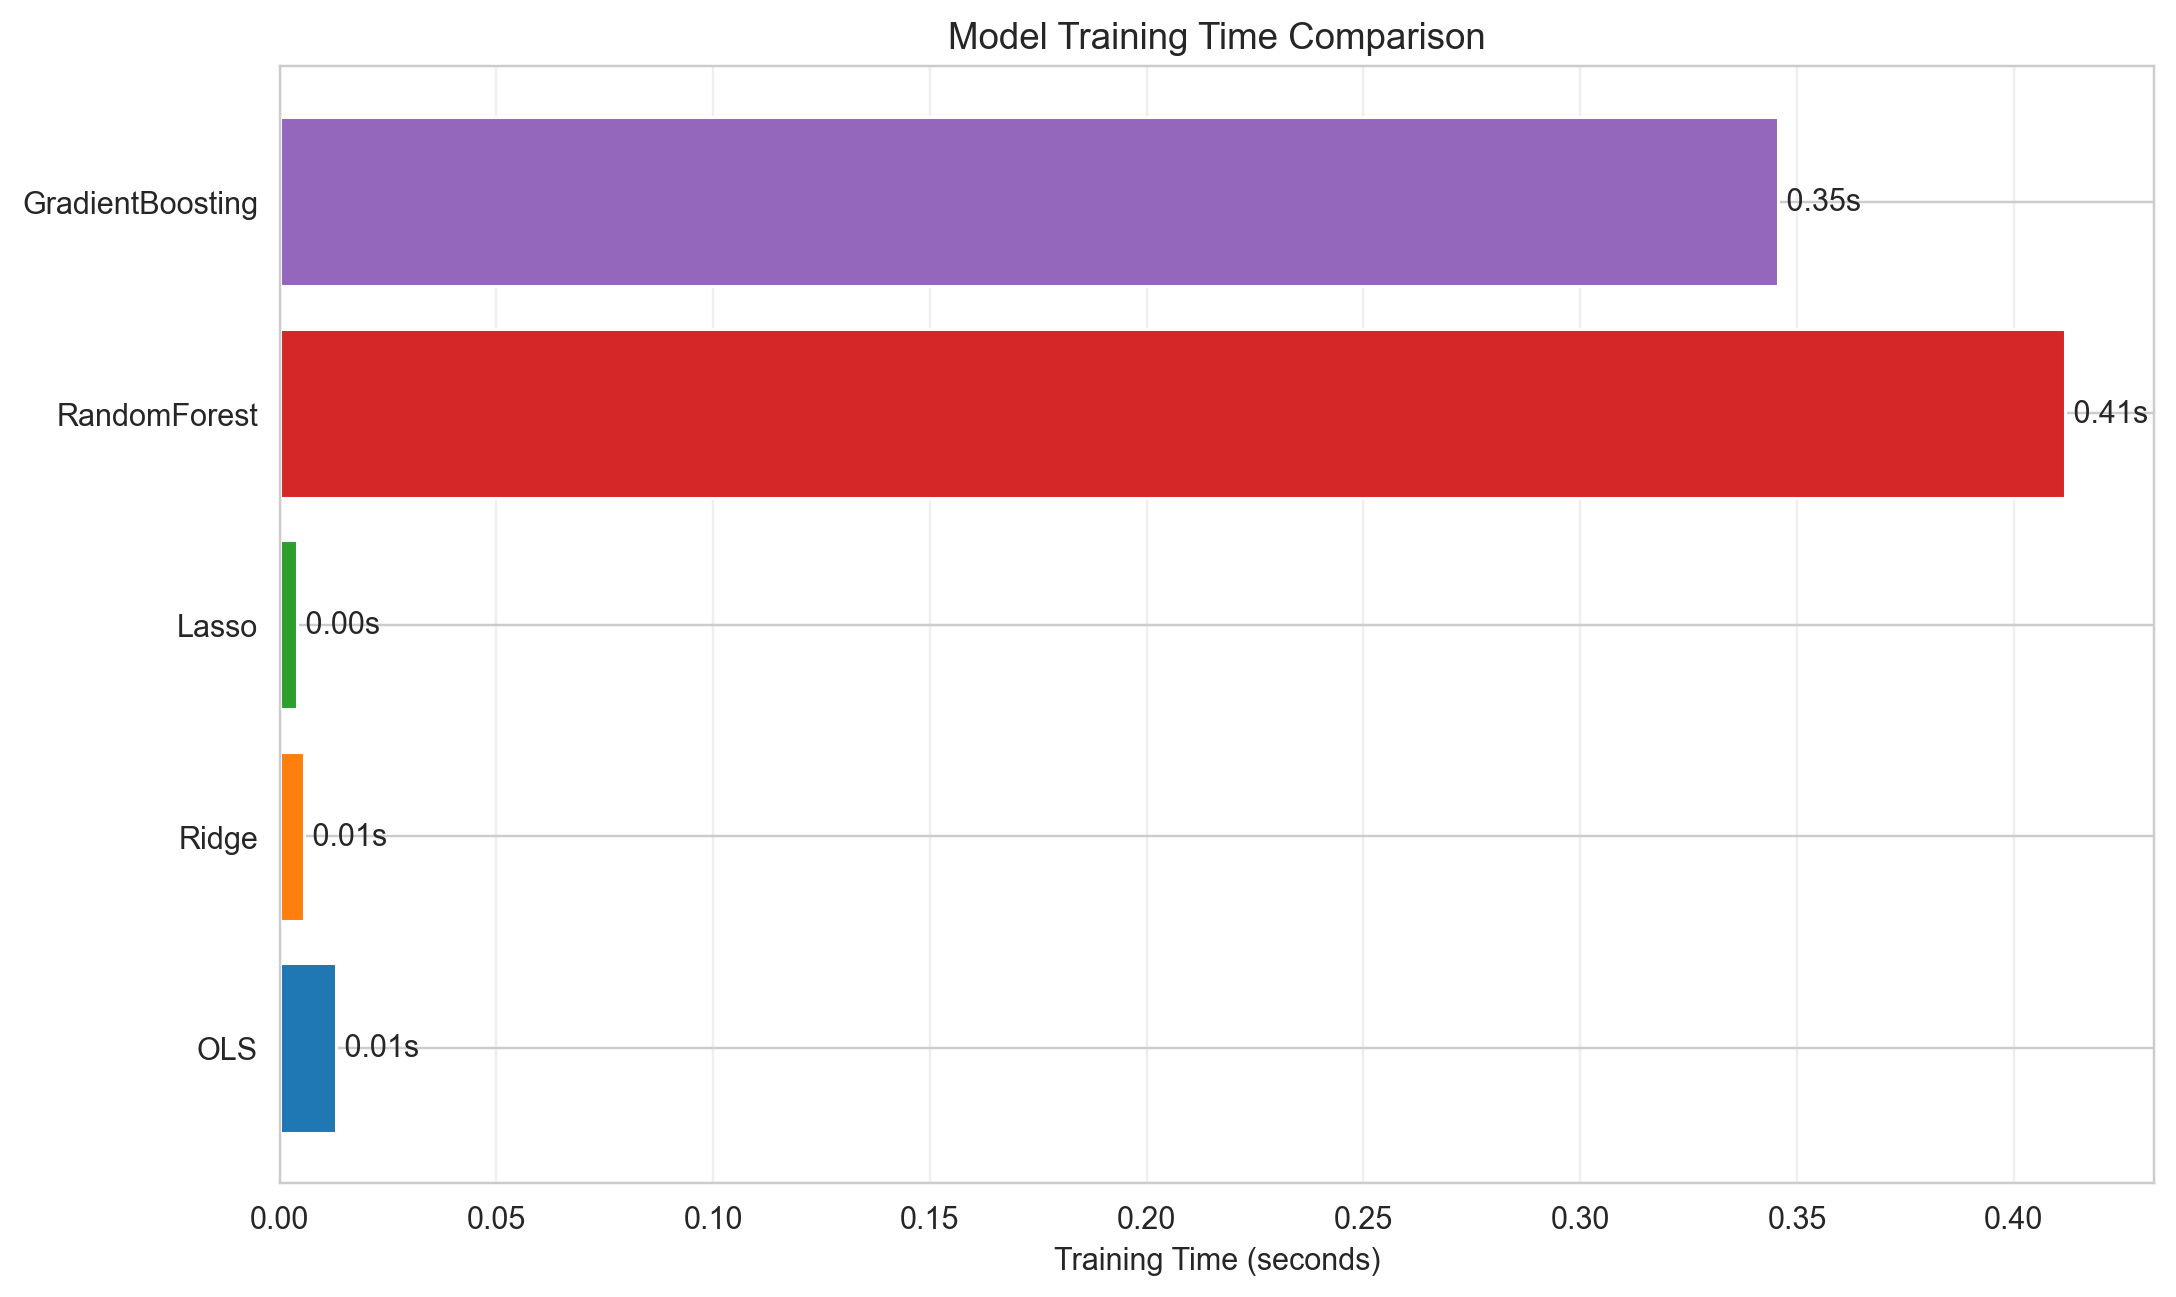
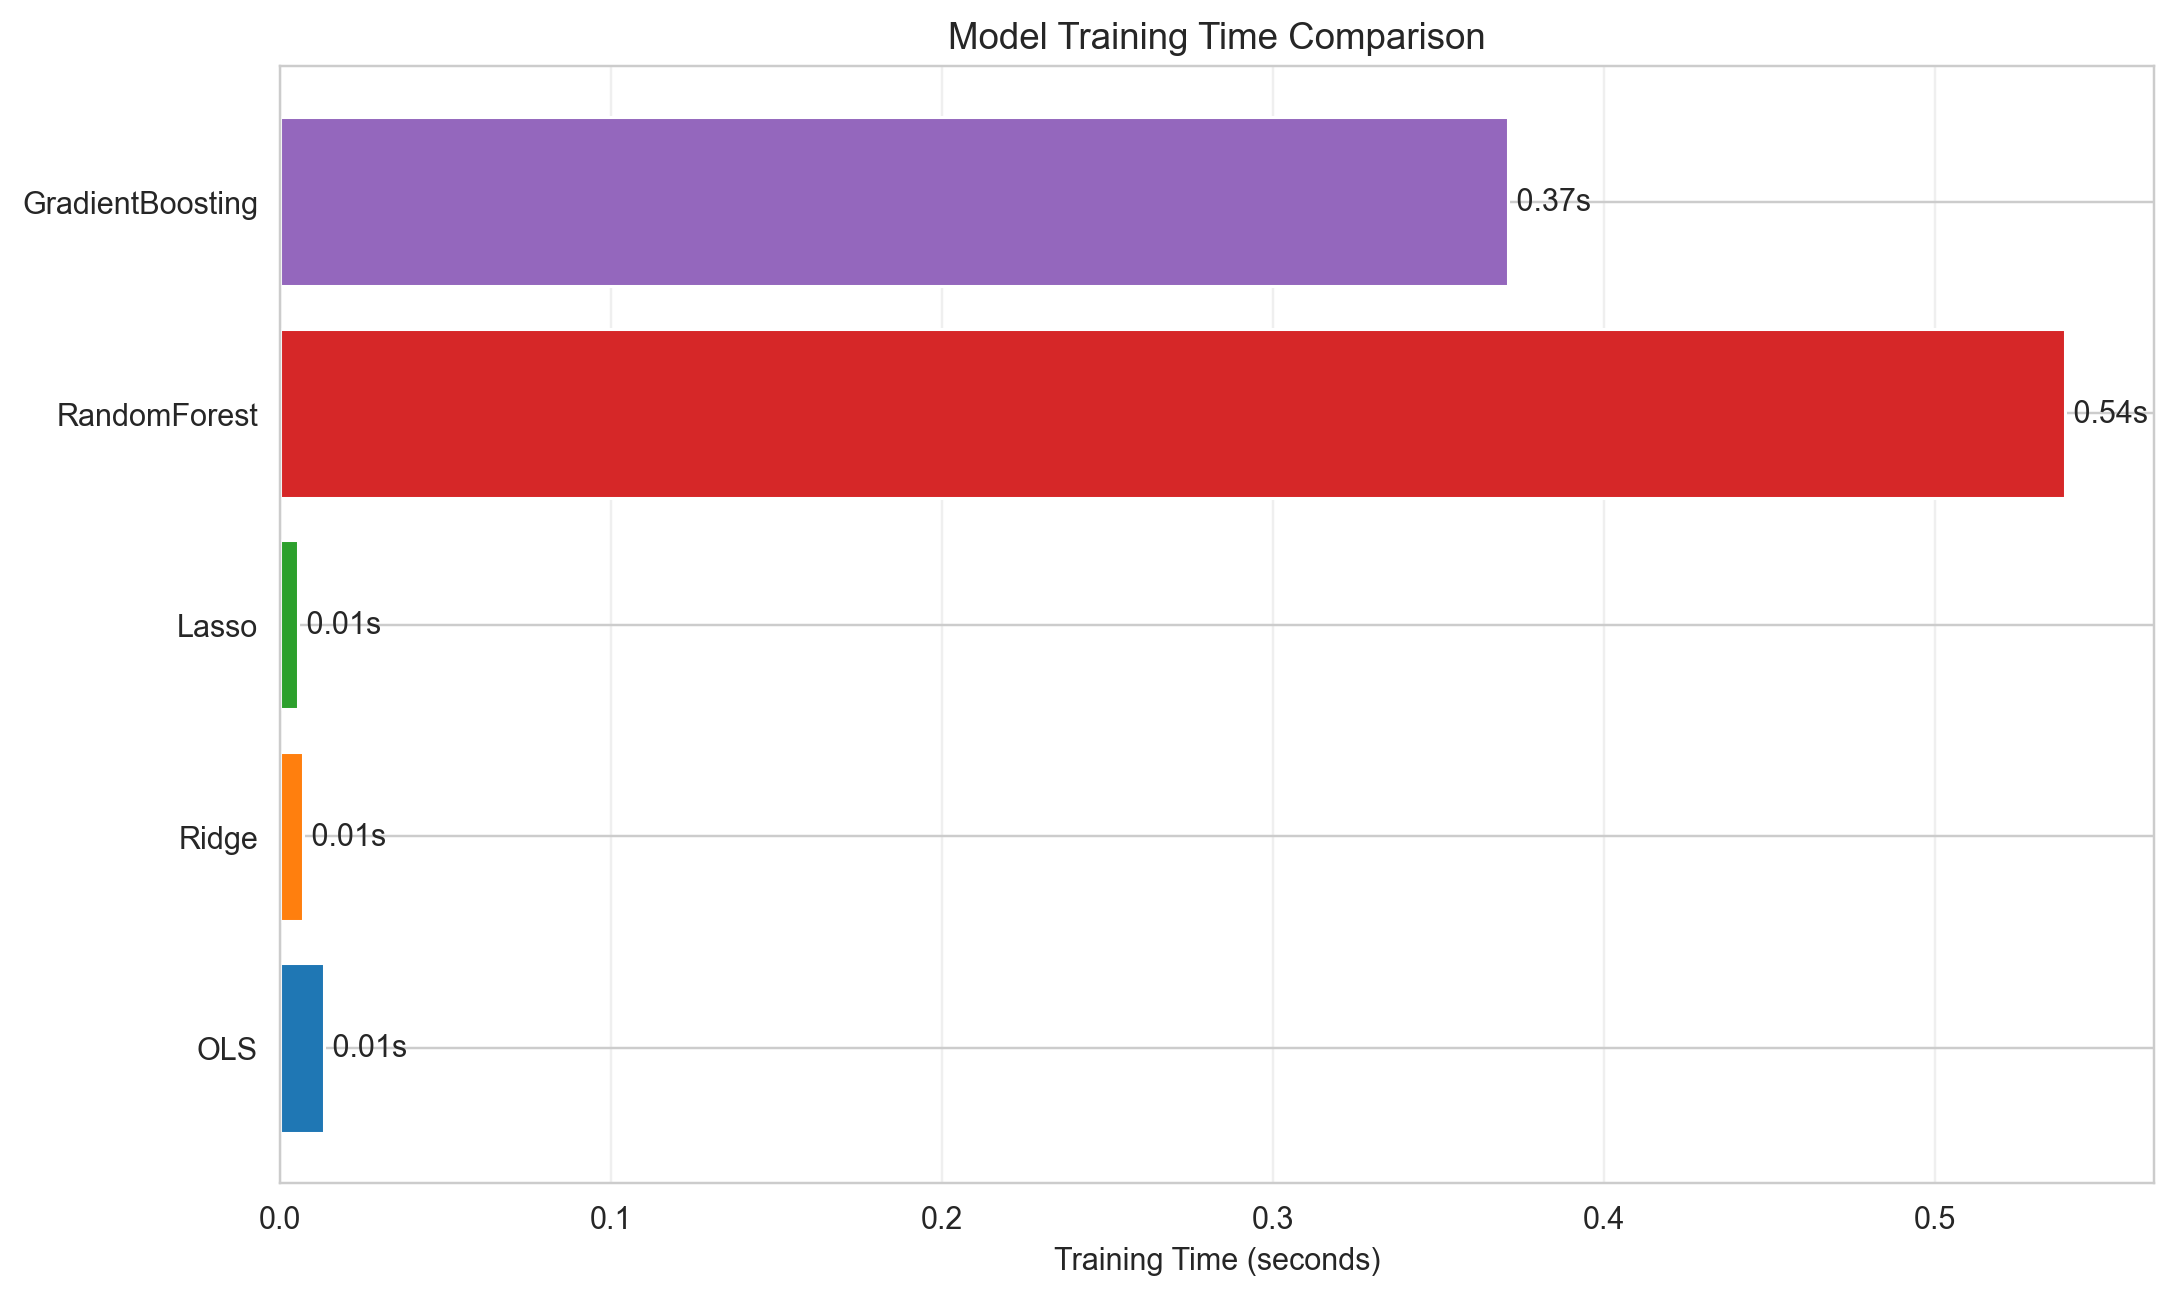
Validate fresh outputs and support small monthly panels

diff --git a/tests/test_forecast_validity.py b/tests/test_forecast_validity.py
@@ -1,4 +1,8 @@
 import tempfile
+import json
+import shutil
+import contextlib
+import io
 import unittest
 from pathlib import Path
 
@@ -7,7 +11,8 @@ import pandas as pd
 from pandas.testing import assert_frame_equal
 
 from src.fa590_stock_return_prediction.panel import align_next_month_target, prepare_features, chronological_split, select_model
-from src.fa590_stock_return_prediction.pipeline import portfolio_performance
+from src.fa590_stock_return_prediction.pipeline import portfolio_performance, RunConfig, run_project
+from scripts.verify_outputs import verify
 from src.fa590_stock_return_prediction.prepare_wrds_merge import build_dataset
 
 
@@ -85,6 +90,40 @@ class ForecastValidityTests(unittest.TestCase):
         result = portfolio_performance(panel, np.arange(20), ["2020-01-31"], "RET")
         self.assertAlmostEqual(result["Avg_Return"], np.mean([0.16, 0.17, 0.18, 0.19]))
         self.assertEqual(result["N_Months"], 1)
+
+    def test_small_monthly_population_is_not_reported_as_empty(self):
+        panel = pd.DataFrame({"DATE": ["2020-01-31"] * 10, "RET": np.arange(10) / 100})
+        result = portfolio_performance(panel, np.arange(10), ["2020-01-31"], "RET")
+        self.assertAlmostEqual(result["Avg_Return"], 0.085)
+        self.assertEqual(result["N_Months"], 1)
+
+    def test_failed_rebuild_cannot_verify_previous_success(self):
+        with tempfile.TemporaryDirectory() as directory:
+            root = Path(directory)
+            (root / "run_status.json").write_text(json.dumps({"status": "SUCCESS"}))
+            (root / "run_summary.json").write_text(json.dumps({"selected_model": "STALE"}))
+            with self.assertRaises(FileNotFoundError):
+                run_project(RunConfig(data_path=str(root / "missing.csv"), output_dir=root, skip_neural_network=True))
+            self.assertEqual(json.loads((root / "run_status.json").read_text())["status"], "ERROR")
+            with self.assertRaisesRegex(AssertionError, "incomplete or failed"):
+                verify(root)
+
+    def test_saved_outputs_verify_across_checkout_line_endings_and_reject_tampering(self):
+        with tempfile.TemporaryDirectory() as directory:
+            root = Path(directory) / "outputs"
+            shutil.copytree(Path(__file__).resolve().parents[1] / "sample_outputs", root)
+            for path in root.glob("*.csv"):
+                path.write_bytes(path.read_bytes().replace(b"\r\n", b"\n"))
+            with contextlib.redirect_stdout(io.StringIO()):
+                verify(root)
+            for path in root.glob("*.csv"):
+                path.write_bytes(path.read_bytes().replace(b"\n", b"\r\n"))
+            with contextlib.redirect_stdout(io.StringIO()):
+                verify(root)
+            prediction_path = root / "predictions.csv"
+            prediction_path.write_bytes(prediction_path.read_bytes() + b"changed")
+            with self.assertRaisesRegex(AssertionError, "Output changed since successful run"):
+                verify(root)
 
 
 if __name__ == "__main__":

diff --git a/src/fa590_stock_return_prediction/pipeline.py b/src/fa590_stock_return_prediction/pipeline.py
@@ -252,7 +252,7 @@ def portfolio_performance(df_subset: pd.DataFrame, predictions: np.ndarray, date
     monthly_returns: List[float] = []
     for date in dates_list:
         date_data = df_temp[df_temp["DATE"] == date]
-        if len(date_data) < 20:
+        if date_data.empty:
             continue
         top_n = max(1, int(np.ceil(0.2 * len(date_data))))
         top_bucket = date_data.nlargest(top_n, "Prediction")
@@ -569,7 +569,7 @@ def save_risk_return_tradeoff(port_df: pd.DataFrame, charts_dir: Path) -> None:
     plt.close()
 
 
-def run_project(config: RunConfig) -> dict:
+def _run_project(config: RunConfig) -> dict:
     set_plot_style()
     set_random_seeds(config.random_seed)
     config.output_dir.mkdir(parents=True, exist_ok=True)
@@ -592,6 +592,8 @@ def run_project(config: RunConfig) -> dict:
     results, training_times, history_df, rf_model = train_models(split, config)
     if not history_df.empty:
         save_nn_history(history_df, charts_dir)
+    else:
+        (charts_dir / "07_nn_training_history.png").unlink(missing_ok=True)
     save_training_times(training_times, charts_dir)
 
     performance_metrics = []
@@ -643,3 +645,27 @@ def run_project(config: RunConfig) -> dict:
     }
     (config.output_dir / "run_summary.json").write_text(json.dumps(summary, indent=2), encoding="utf-8")
     return summary
+
+
+def run_project(config: RunConfig) -> dict:
+    """Keep a failed rebuild from advertising a previous run as current."""
+    config.output_dir.mkdir(parents=True, exist_ok=True)
+    status_path = config.output_dir / "run_status.json"
+    status_path.write_text(json.dumps({"status": "BUILDING"}), encoding="utf-8")
+    try:
+        summary = _run_project(config)
+        artifacts = [*config.output_dir.glob("*.csv"), config.output_dir / "run_summary.json",
+                     * (config.output_dir / "charts").glob("*.png")]
+        def digest(path: Path) -> str:
+            raw = path.read_bytes()
+            if path.suffix in {".csv", ".json"}:
+                raw = raw.replace(b"\r\n", b"\n")
+            return hashlib.sha256(raw).hexdigest()
+
+        hashes = {path.relative_to(config.output_dir).as_posix(): digest(path)
+                  for path in sorted(artifacts)}
+        status_path.write_text(json.dumps({"status": "SUCCESS", "text_identity": "CSV/JSON CRLF normalized to LF; binary bytes unchanged", "artifact_sha256": hashes}, indent=2), encoding="utf-8")
+        return summary
+    except Exception as error:
+        status_path.write_text(json.dumps({"status": "ERROR", "error_type": type(error).__name__}), encoding="utf-8")
+        raise

diff --git a/scripts/verify_outputs.py b/scripts/verify_outputs.py
@@ -1,5 +1,6 @@
 """Independently reconcile saved scores and selection to dated predictions."""
 import argparse
+import hashlib
 import json
 from pathlib import Path
 
@@ -8,10 +9,24 @@ import pandas as pd
 
 
 def verify(directory: Path):
+    status = json.loads((directory / "run_status.json").read_text())
+    assert status["status"] == "SUCCESS", "Output generation is incomplete or failed"
+    required = {"run_summary.json", "predictions.csv", "predictive_performance_detailed.csv",
+                "portfolio_performance.csv", "feature_importance.csv"}
+    hashes = status["artifact_sha256"]
+    assert required.issubset(hashes), "Successful run record lacks required outputs"
+    for name, expected_hash in hashes.items():
+        path = directory / name
+        assert path.resolve().is_relative_to(directory.resolve()), "Artifact escapes output directory"
+        raw = path.read_bytes()
+        if path.suffix in {".csv", ".json"}:
+            raw = raw.replace(b"\r\n", b"\n")
+        assert hashlib.sha256(raw).hexdigest() == expected_hash, f"Output changed since successful run: {name}"
     summary = json.loads((directory / "run_summary.json").read_text())
     predictions = pd.read_csv(directory / "predictions.csv", parse_dates=["DATE", "target_DATE"])
     scores = pd.read_csv(directory / "predictive_performance_detailed.csv")
     portfolios = pd.read_csv(directory / "portfolio_performance.csv")
+    assert summary["configuration"]["neural_network_enabled"] or not (directory / "charts/07_nn_training_history.png").exists()
     assert not predictions.duplicated(["Model", "Dataset", "permno", "DATE"]).any()
     assert predictions["target_DATE"].eq(predictions["DATE"] + pd.offsets.MonthEnd(1)).all()
     assert np.isfinite(predictions[["RET", "Prediction"]]).all().all()
@@ -22,6 +37,7 @@ def verify(directory: Path):
         if dataset == "Test":
             mean_return = rows.groupby("DATE").apply(lambda group: group.nlargest(max(1, int(np.ceil(len(group) * 0.2))), "Prediction")["RET"].mean(), include_groups=False)
             portfolio = portfolios[portfolios["Model"].eq(model) & portfolios["Dataset"].eq(dataset)].iloc[0]
+            assert portfolio["N_Months"] == len(mean_return)
             np.testing.assert_allclose(mean_return.mean(), portfolio["Avg_Return"], rtol=1e-10, atol=1e-12)
     validation = scores[scores["Dataset"].eq("Validation")].sort_values(["MSE", "Model"])
     assert summary["selected_model"] == validation.iloc[0]["Model"]

diff --git a/README.md b/README.md
@@ -65,6 +65,8 @@ Do not redistribute restricted market data. `target_source` is metadata and is e
 
 Each run saves dated stock-level predictions, predictive metrics, top-quintile diagnostics, feature importance, charts and a summary with split ranges, input hash, runtime and configuration. `scripts/verify_outputs.py` independently recomputes MSE and top-quintile average outcomes, verifies exact calendar-month targets and split-label boundaries, and reconciles the selected model to validation scores.
 
+`run_status.json` binds the current completed outputs by SHA-256, normalizing CSV/JSON line endings to LF for Windows/Linux checkouts and hashing binary charts exactly. A failed rebuild records `ERROR`, so old files cannot pass as a fresh successful run. Disabling the optional neural network removes its previous training-history chart. Each nonempty monthly population contributes its top quintile, including small supplied panels and `--demo-stocks` values below 20.
+
 The equal-weight top forecast quintile is a gross research diagnostic. Its reported monthly mean/volatility ratio uses a zero hurdle and sample standard deviation; it is not an annualized excess-return Sharpe ratio. Transaction costs, shorting, liquidity, delistings and an investable historical universe are not modeled. Proxy response values do not establish portfolio returns.
 
 Regression tests perturb future predictors and final-test scores, validate target gaps and duplicate rejection, and check the WRDS merge's forward horizon. GitHub Actions tests the core pipeline, reconciles the saved synthetic showcase and builds a fresh synthetic run.
